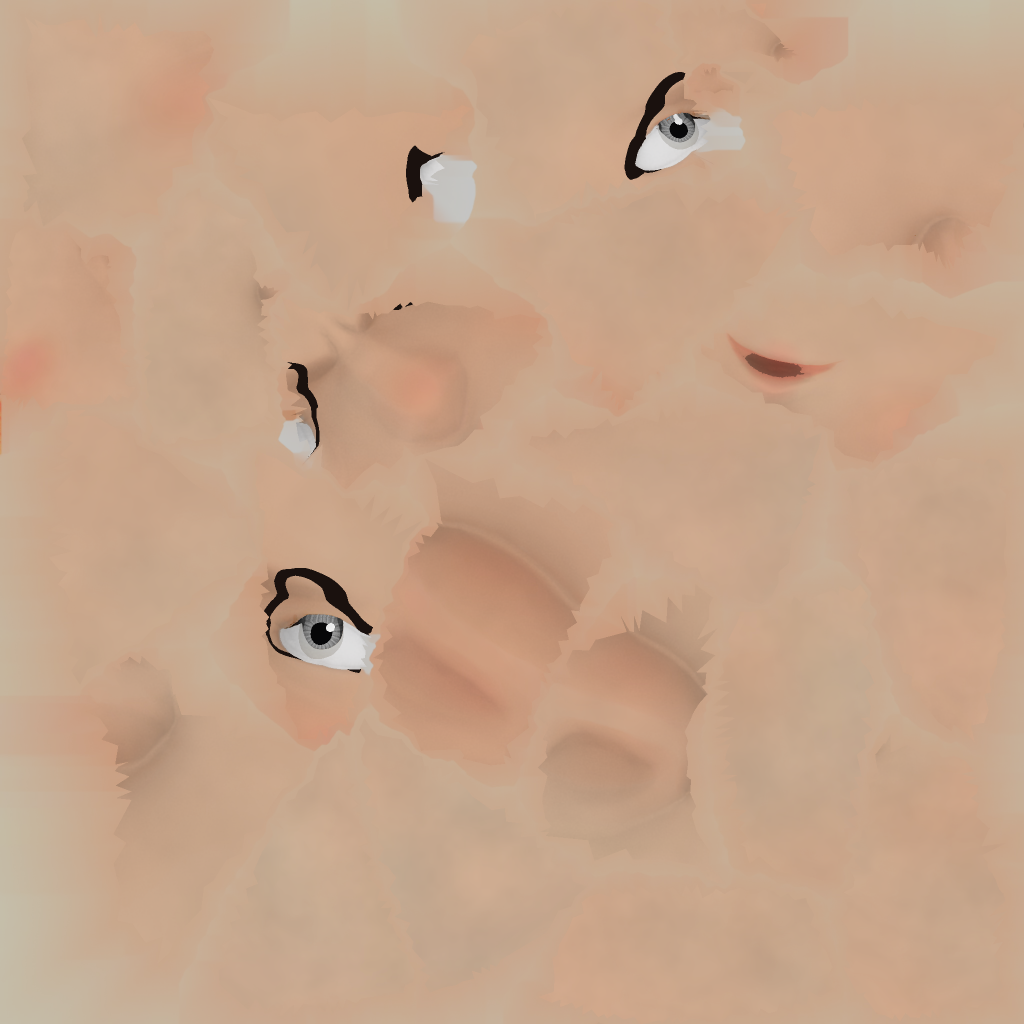
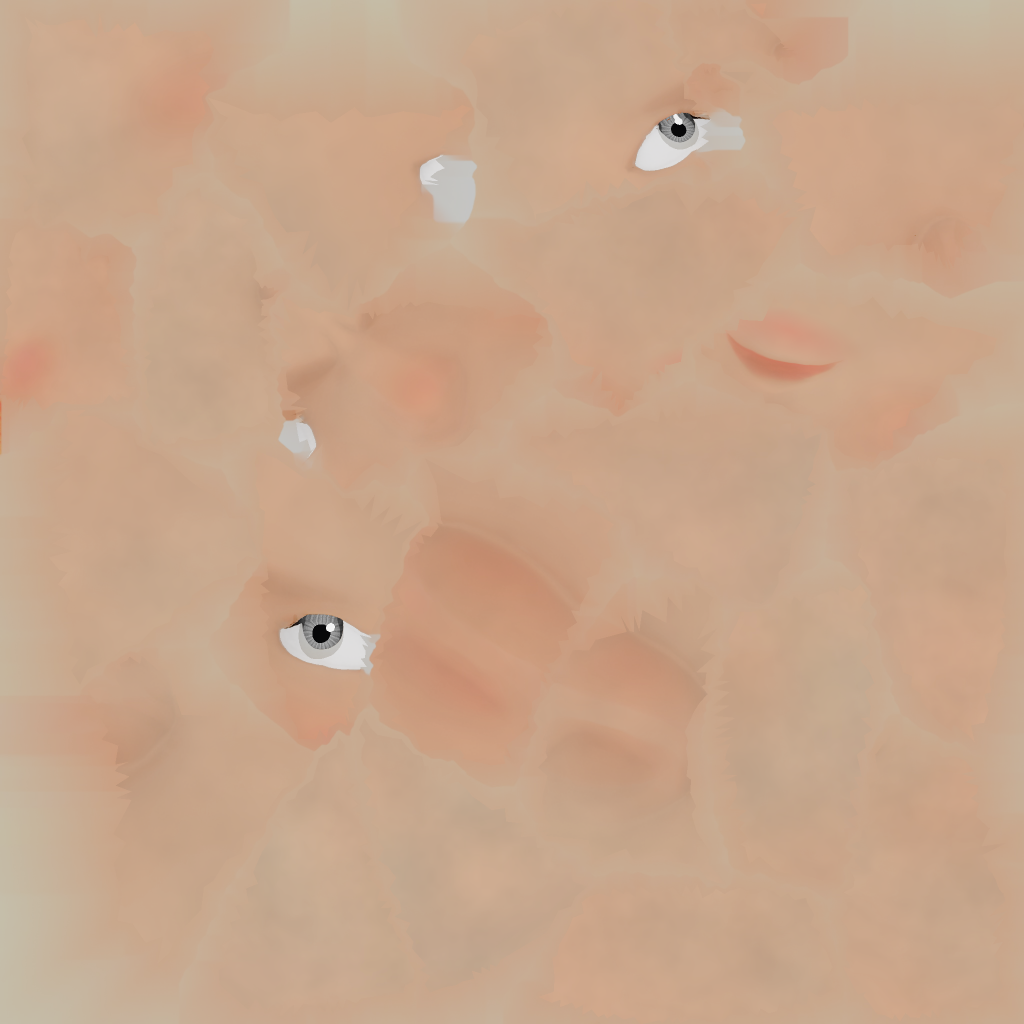
foi's faces: the bold features taken back off (brows as before, no lash outline, pupils and mouth as made) and the baked frown shade softened; the first two heads named Erkek foi / Kadın foi

diff --git a/Assets/_Project/Scripts/Data/Loc.cs b/Assets/_Project/Scripts/Data/Loc.cs
@@ -1085,10 +1085,10 @@ namespace SquashBot.Data
             ["garage.Hair"] = "HAIR",
             ["garage.Skin"] = "SKIN",
             ["garage.Iris"] = "EYES",
-            ["cos.head.m1"] = "Rex",
+            ["cos.head.m1"] = "Male foi",
             ["cos.head.m2"] = "Kai",
             ["cos.head.m3"] = "Spike",
-            ["cos.head.f1"] = "Luna",
+            ["cos.head.f1"] = "Female foi",
             ["cos.head.f2"] = "Mira",
             ["cos.head.f3"] = "Nora",
             ["cos.skin.wheat"] = "Wheat",
@@ -3987,10 +3987,10 @@ namespace SquashBot.Data
             ["garage.Hair"] = "SAÇ",
             ["garage.Skin"] = "TEN",
             ["garage.Iris"] = "GÖZ",
-            ["cos.head.m1"] = "Rex",
+            ["cos.head.m1"] = "Erkek foi",
             ["cos.head.m2"] = "Kai",
             ["cos.head.m3"] = "Spike",
-            ["cos.head.f1"] = "Luna",
+            ["cos.head.f1"] = "Kadın foi",
             ["cos.head.f2"] = "Mira",
             ["cos.head.f3"] = "Nora",
             ["cos.skin.wheat"] = "Buğday",

diff --git a/Assets/_Project/Scripts/Data/LocArabic.cs b/Assets/_Project/Scripts/Data/LocArabic.cs
@@ -964,10 +964,10 @@ namespace SquashBot.Data
             ["garage.Hair"] = "الشعر",
             ["garage.Skin"] = "البشرة",
             ["garage.Iris"] = "العيون",
-            ["cos.head.m1"] = "ريكس",
+            ["cos.head.m1"] = "foi رجل",
             ["cos.head.m2"] = "كاي",
             ["cos.head.m3"] = "سبايك",
-            ["cos.head.f1"] = "لونا",
+            ["cos.head.f1"] = "foi امرأة",
             ["cos.head.f2"] = "ميرا",
             ["cos.head.f3"] = "نورا",
             ["cos.skin.wheat"] = "حنطي",

diff --git a/Assets/_Project/Scripts/Data/LocKorean.cs b/Assets/_Project/Scripts/Data/LocKorean.cs
@@ -964,10 +964,10 @@ namespace SquashBot.Data
             ["garage.Hair"] = "헤어",
             ["garage.Skin"] = "피부",
             ["garage.Iris"] = "눈",
-            ["cos.head.m1"] = "렉스",
+            ["cos.head.m1"] = "남자 foi",
             ["cos.head.m2"] = "카이",
             ["cos.head.m3"] = "스파이크",
-            ["cos.head.f1"] = "루나",
+            ["cos.head.f1"] = "여자 foi",
             ["cos.head.f2"] = "미라",
             ["cos.head.f3"] = "노라",
             ["cos.skin.wheat"] = "밀빛",

diff --git a/Assets/_Project/Scripts/Data/LocAzerbaijani.cs b/Assets/_Project/Scripts/Data/LocAzerbaijani.cs
@@ -964,10 +964,10 @@ namespace SquashBot.Data
             ["garage.Hair"] = "SAÇ",
             ["garage.Skin"] = "DƏRİ",
             ["garage.Iris"] = "GÖZ",
-            ["cos.head.m1"] = "Rex",
+            ["cos.head.m1"] = "Kişi foi",
             ["cos.head.m2"] = "Kai",
             ["cos.head.m3"] = "Spike",
-            ["cos.head.f1"] = "Luna",
+            ["cos.head.f1"] = "Qadın foi",
             ["cos.head.f2"] = "Mira",
             ["cos.head.f3"] = "Nora",
             ["cos.skin.wheat"] = "Buğdayı",

diff --git a/Assets/_Project/Scripts/Data/LocItalian.cs b/Assets/_Project/Scripts/Data/LocItalian.cs
@@ -964,10 +964,10 @@ namespace SquashBot.Data
             ["garage.Hair"] = "CAPELLI",
             ["garage.Skin"] = "PELLE",
             ["garage.Iris"] = "OCCHI",
-            ["cos.head.m1"] = "Rex",
+            ["cos.head.m1"] = "foi uomo",
             ["cos.head.m2"] = "Kai",
             ["cos.head.m3"] = "Spike",
-            ["cos.head.f1"] = "Luna",
+            ["cos.head.f1"] = "foi donna",
             ["cos.head.f2"] = "Mira",
             ["cos.head.f3"] = "Nora",
             ["cos.skin.wheat"] = "Grano",

diff --git a/Assets/_Project/Scripts/Data/LocSpanish.cs b/Assets/_Project/Scripts/Data/LocSpanish.cs
@@ -964,10 +964,10 @@ namespace SquashBot.Data
             ["garage.Hair"] = "PELO",
             ["garage.Skin"] = "PIEL",
             ["garage.Iris"] = "OJOS",
-            ["cos.head.m1"] = "Rex",
+            ["cos.head.m1"] = "foi chico",
             ["cos.head.m2"] = "Kai",
             ["cos.head.m3"] = "Spike",
-            ["cos.head.f1"] = "Luna",
+            ["cos.head.f1"] = "foi chica",
             ["cos.head.f2"] = "Mira",
             ["cos.head.f3"] = "Nora",
             ["cos.skin.wheat"] = "Trigueña",

diff --git a/Assets/_Project/Scripts/Data/LocGerman.cs b/Assets/_Project/Scripts/Data/LocGerman.cs
@@ -964,10 +964,10 @@ namespace SquashBot.Data
             ["garage.Hair"] = "HAARE",
             ["garage.Skin"] = "HAUT",
             ["garage.Iris"] = "AUGEN",
-            ["cos.head.m1"] = "Rex",
+            ["cos.head.m1"] = "foi Mann",
             ["cos.head.m2"] = "Kai",
             ["cos.head.m3"] = "Spike",
-            ["cos.head.f1"] = "Luna",
+            ["cos.head.f1"] = "foi Frau",
             ["cos.head.f2"] = "Mira",
             ["cos.head.f3"] = "Nora",
             ["cos.skin.wheat"] = "Weizen",
